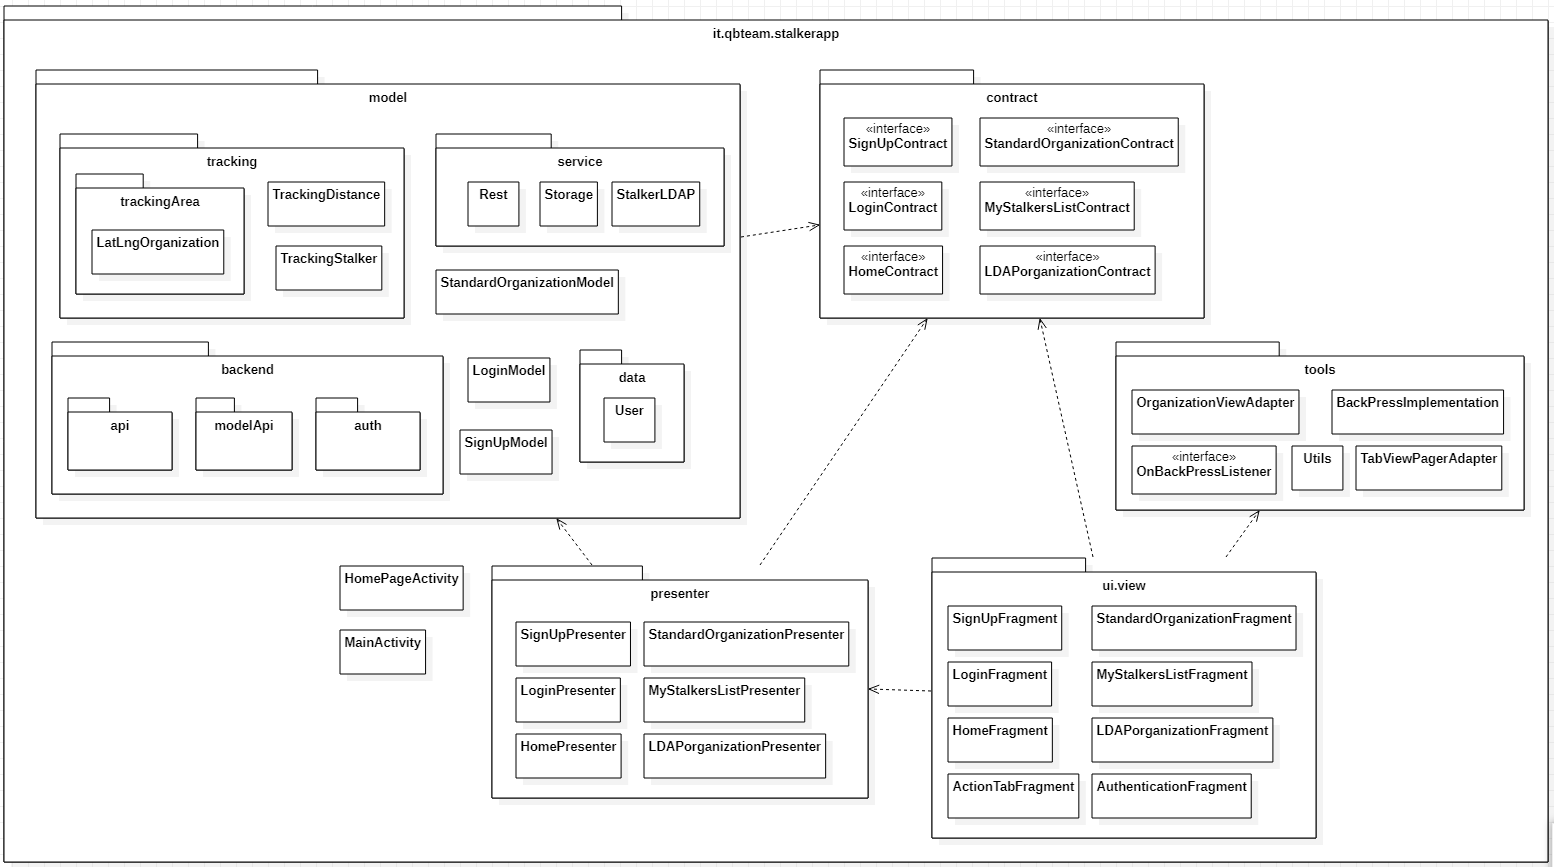
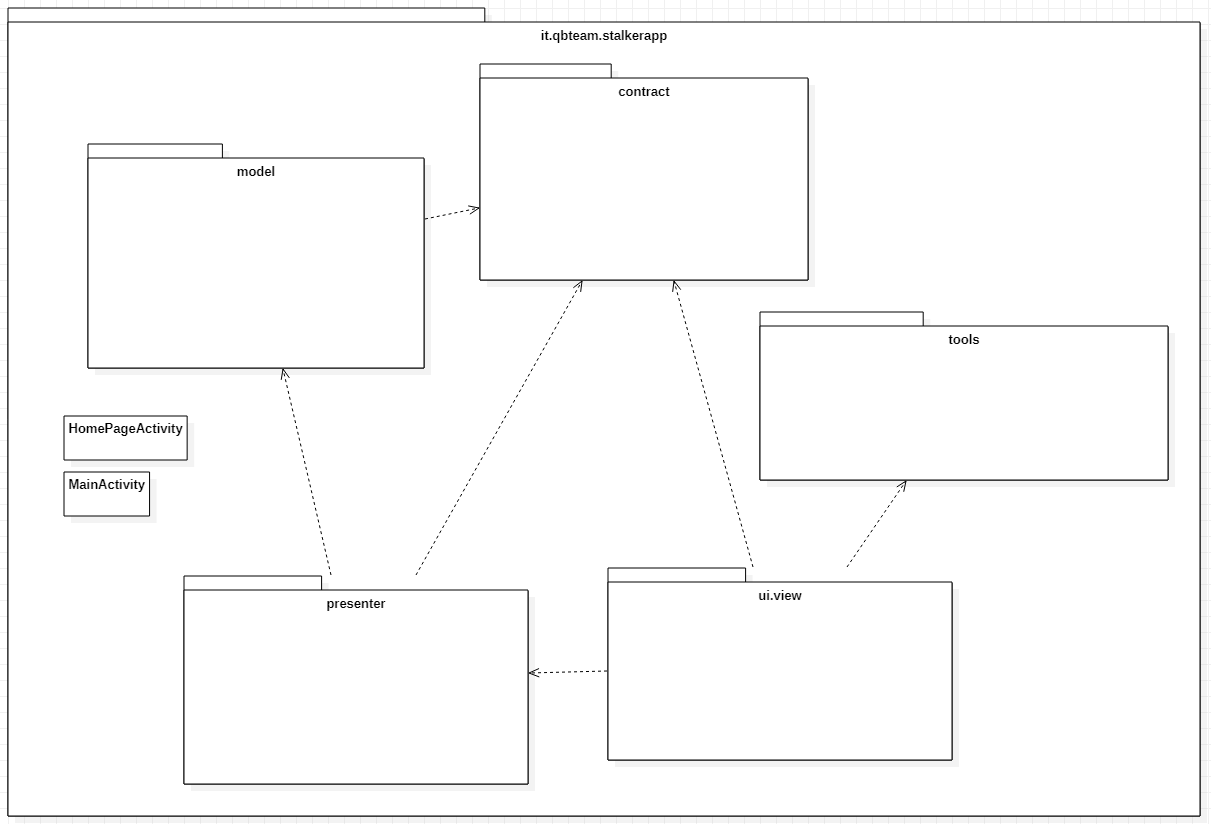
Stesura sezione Package

diff --git a/DocumentazioneEsterna/ManualeSviluppatore/docs/app/package.md b/DocumentazioneEsterna/ManualeSviluppatore/docs/app/package.md
@@ -1,13 +1,62 @@
 Vengono presentati qui di seguito i diagrammi UML dei package relativi alla applicazione Android.
 ## Visione generale delle dipendenze tra package ##
-Nel seguente diagramma UML dei package vengono mostrate tutte le dipendenze che esistono tra i vari package
+Il package principale dell'applicazione è nominato it.qbteam.stalkerapp. Esso contiene le classi di attività HomePageActivity e MainActivity e i vari package dell'architettura Model View Presenter. Nel seguente diagramma UML vengono mostrate tutte le dipendenze che esistono tra i vari package.
+<div align="center"> 
   ![!Dipendenze](/Immagini/App/AppPackageDiagramm.PNG "Diagramma dei package - Visione delle dipendenze")
-  <figcaption align=center> <em> Diagramma dei package - Visione delle dipendenze </em> </figcaption>
+<figcaption align=center> <em> Diagramma dei package - Visione delle dipendenze </em> </figcaption>
+</div>
 
+<br/>
+## Model ##
+Nel seguente package vengono raggruppati altri package contenenti tutte le classi utilizzate per la business logic. In questa sezione vengono utilizzate le funzionalità di tracking, gestione dati dal server o locali, metodi di connessione ed interazione con il backend, autenticazioni su Firebase o LDAP, struttura delle organizzazioni e dell'utente.
+<div align="center">
+![!Model](/Immagini/App/ModelPackageDiagramm.PNG "Package del Model")
+<figcaption align=center> <em> Diagramma del package - Package del Model </em> </figcaption>
+<br/>
+</div>
+
+<br/>
+## View ##
+Nel seguente package vengono raggruppate tutte le classi dedicate alle funzionalità di user interface. Le classi fragment rappresentano le pagine dell'applicazione e sono collegate con i loro rispettivi file xml che modificano la loro interpretazione grafica.
+<div align="center">
+![!View](/Immagini/App/ViewPackageDiagramm.PNG "Esempio diagramma dei package dei View")
+<figcaption align=center> <em> Diagramma del package - Package del View </em> </figcaption>
+<br/>
+</div>
+
+<br/>
+## Presenter ##
+Nel seguente package vengono raggruppate tutte le classi dedicate alla comunicazione tra le altre due componenti dell'architettura.
+<div align="center">
+![!Presenter](/Immagini/App/PresenterPackageDiagramm.PNG "Esempio diagramma dei package dei Presenter")
+<figcaption align=center> <em> Diagramma del package - Package del Presenter </em> </figcaption>
+<br/>
+</div>
+
+<br/>
+## Contract ##
+Nel seguente package vengono raggruppate tutte le interfacce contract che servono per facilitare la comunicazione tra le varie componenti in maniera asincrona. Visto che a loro volta contengono altre interfacce possono essere rappresentate come dei "package".
+<div align="center">
+![!Contract](/Immagini/App/ContractPackageDiagramm.PNG "contract")
+<figcaption align=center> <em> Diagramma del package - Package del Contract </em> </figcaption>
+<br/>
+</div>
 
 <br/>
 ## Esempio di composizione di un Contract ##
-Andando nel dettaglio il seguente "package" vengono raggruppate tutte le interfacce che compongono un contract. Anche se la rappresentazione reale del contract è un'interfaccia può essere visto come un package.
+Andando nel dettaglio il seguente "package" raggruppa tutte le interfacce che compongono un contract e questa struttura vale anche per tutti gli altri contract.
+<div align="center">
 ![!LoginContract](/Immagini/App/LoginContract.PNG "Esempio diagramma dei package dei contracts")
 <figcaption align=center> <em> Diagramma del package - Package del LoginContract </em> </figcaption>
 <br/>
+</div>
+
+<br/>
+## Tool ##
+Nel seguente package vengono raggruppate tutte le classi ed interfacce dedicate alle funzionalità generiche che possono essere usate in base ai contesti per dare supporto ai fragment ed evitare ripetizioni di codice tra le varie classi.
+<div align="center">
+![!Tool](/Immagini/App/ToolPackageDiagramm.PNG "Package del Tool")
+<figcaption align=center> <em> Diagramma del package - Package del Tool </em> </figcaption>
+<br/>
+</div>
+
